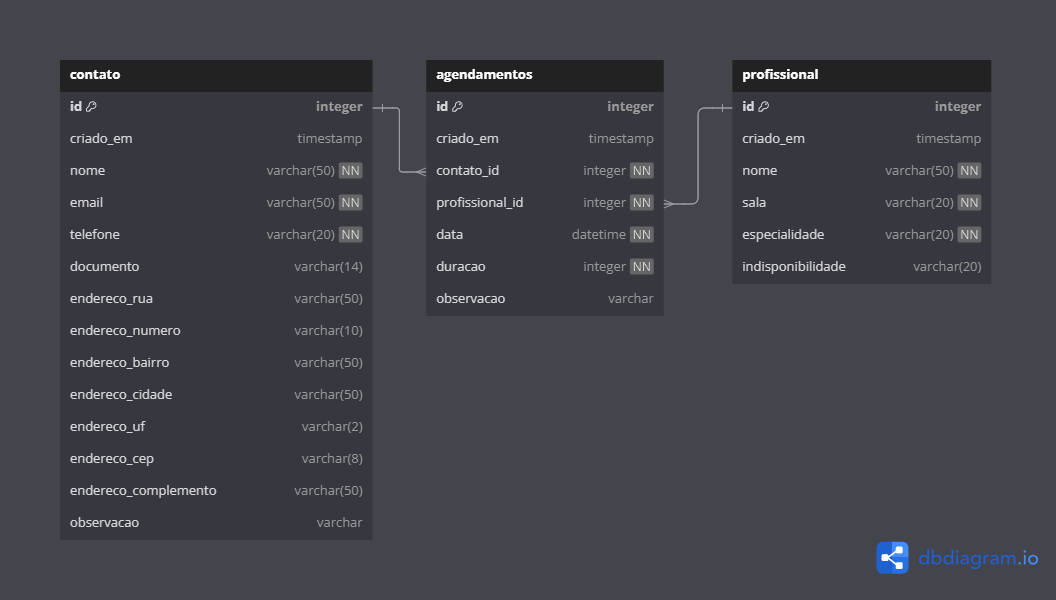
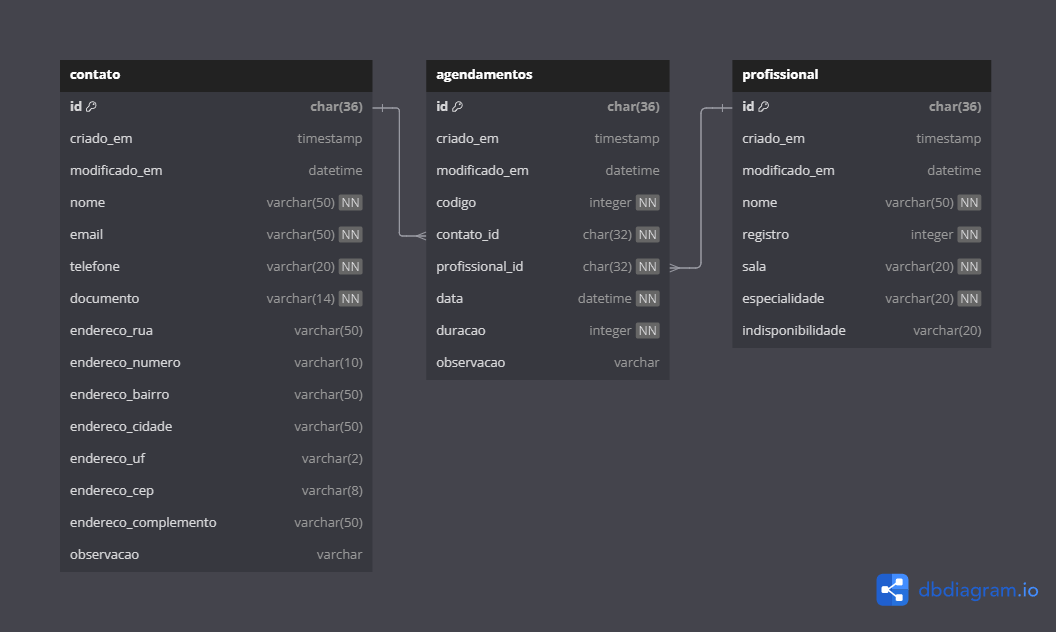
remoção de comentários e logs desnecessários, ajustes para crud de agendamentos, correção do dfd, criação de cenários de teste, preenchimento do readme e menores ajustes

diff --git a/src/data/agendamentos.py b/src/data/agendamentos.py
@@ -1,60 +1,124 @@
-from src.data.db_conn import db_connection
-from mysql.connector import Error
+from datetime import datetime
+from prettytable import PrettyTable
 
-def agendamentos_incluir(contato_id, profissional_id, data, duracao):
+from src.utils import *
+from src.data.db_conn import db_connection, par_dbType
+if par_dbType == "mssql": from pyodbc import Error
+if par_dbType == "mysql": from mysql.connector import Error
+
+def agendamentos_incluir(contato_doc, profissional_registro, data, hora, duracao):
     try:
         conn = db_connection()
         cursor = conn.cursor()
-        query = "insert into agendamentos(contato_id, profissional_id, data, duracao) values (%s, %s, %s, %s)"
-        values = (contato_id, profissional_id, data, duracao)
+        contato_id = contato_buscar_id(contato_doc)
+        profissional_id = profissional_buscar_id(profissional_registro)
+        codigo = agendamentos_buscar_ultimo_codigo() + 1
+        date = datetime.strptime(data + " " + hora, "%d/%m/%Y %H:%M")
+        date = date.strftime("%Y-%m-%d %H:%M:00")
+        query = "insert into agendamentos (codigo, contato_id, profissional_id, data, duracao) values (%s, %s, %s, %s, %s)"
+        query = dbms_mark_replacer(par_dbType, query)
+        values = (codigo, contato_id, profissional_id, date, duracao)
         cursor.execute(query, values)
-        db_connection().commit()
-        print("insert OK")
+        conn.commit()
     except Error as e:
         print(f"erro ao inserir dados: {e}")
     finally:
         cursor.close()
 
-def agendamentos_alterar(id, contato_id, profissional_id, data, duracao):
+def agendamentos_alterar(codigo, contato_doc, profissional_registro, data, hora, duracao):
     try:
         conn = db_connection()
         cursor = conn.cursor()
-        query = "update agendamentos set contato_id = %s, profissional_id = %s, data = %s, duracao = %s where id = %s" 
-        values = (contato_id, profissional_id, data, duracao, id)
+        contato_id = contato_buscar_id(contato_doc)
+        profissional_id = profissional_buscar_id(profissional_registro)
+        date = datetime.strptime(data + " " + hora, "%d/%m/%Y %H:%M")
+        date = date.strftime("%Y-%m-%d %H:%M:00")
+        query = "update agendamentos set contato_id = %s, profissional_id = %s, data = %s, duracao = %s where codigo = %s"
+        query = dbms_mark_replacer(par_dbType, query)
+        values = (contato_id, profissional_id, date, duracao, codigo)
+        print('var values: ', values)
         cursor.execute(query, values)
-        db_connection().commit()
-        print("update OK")
+        conn.commit()
     except Error as e:
         print(f"erro ao alterar dados: {e}")
     finally:
         cursor.close()
 
-def agendamentos_excluir(id):
+def agendamentos_excluir(codigo):
     try:
         conn = db_connection()
         cursor = conn.cursor()
-        query = "delete from agendamentos where id = %s"
-        values = (id,)
+        query = "delete from agendamentos where codigo = %s"
+        query = dbms_mark_replacer(par_dbType, query)
+        values = (codigo,)
         cursor.execute(query, values)
-        db_connection().commit()
-        print("delete OK")
+        conn.commit()
     except Error as e:
         print(f"erro ao excluir dados: {e}")
     finally:
         cursor.close()
 
-
-## TO-DO ajustar
 def agendamentos_listar():
     try:
         conn = db_connection()
         cursor = conn.cursor()
-        query = "select * from agendamentos"
+        query = "select format(a.data, 'dd/MM/yyyy HH:mm') \"data\", concat(a.duracao, ' minutos') \"duracao\", concat('#', a.codigo) \"codigo\", c.nome \"paciente\", p.nome \"profissional\" \
+                from agendamentos a \
+                inner join profissional p on a.profissional_id = p.id \
+                inner join contato c on a.contato_id = c.id \
+                order by a.data, a.codigo;"
         cursor.execute(query)
         rows = cursor.fetchall()
-        for row in rows:
-            print(row)
+        table = PrettyTable()
+        table.title = "*** Appointment Manager - Agendamentos ***"
+        table.field_names = ["Data", "Duracao", "Codigo", "Paciente", "Profissional"]
+        table.add_rows(rows)
+        table.align = "l"
+        print(table)
     except Error as e:
         print(f"erro ao listar dados: {e}")
+    finally:
+        cursor.close()
+
+def contato_buscar_id(contato_doc):
+    try:
+        conn = db_connection()
+        cursor = conn.cursor()
+        query = "select id from contato where documento = %s"
+        query = dbms_mark_replacer(par_dbType, query)
+        values = (contato_doc,)
+        cursor.execute(query, values)
+        row = cursor.fetchone()
+        return row[0]
+    except Error as e:
+        print(f"erro ao buscar dados: {e}")
+    finally:
+        cursor.close()
+
+def profissional_buscar_id(profissional_registro):
+    try:
+        conn = db_connection()
+        cursor = conn.cursor()
+        query = "select id from profissional where registro = %s"
+        query = dbms_mark_replacer(par_dbType, query)
+        values = (profissional_registro,)
+        cursor.execute(query, values)
+        row = cursor.fetchone()
+        return row[0]
+    except Error as e:
+        print(f"erro ao buscar dados: {e}")
+    finally:
+        cursor.close()
+
+def agendamentos_buscar_ultimo_codigo():
+    try:
+        conn = db_connection()
+        cursor = conn.cursor()
+        query = "select max(codigo) from agendamentos"
+        cursor.execute(query)
+        row = cursor.fetchone()
+        return row[0]
+    except Error as e:
+        print(f"erro ao buscar dados: {e}")
     finally:
         cursor.close()

diff --git a/src/menu/home.py b/src/menu/home.py
@@ -27,7 +27,7 @@ def start_menu():
   print("---------------------------")
 
 def end_menu(current_menu):
-  print("Pressione ENTER para continuar...")
+  print("Pressione ENTER para voltar ao menu...")
   input()
   match current_menu:
     case "contato":
@@ -84,7 +84,7 @@ def contato_alterar_menu():
 
 def contato_excluir_menu():
   start_menu()
-  print("Por favor, insira o id do contato a ser excluído:")
+  print("Por favor, insira o documento do contato a ser excluído:")
   documento = input("Documento: ")
   contato_excluir(documento)
   print("Contato excluído com sucesso!")
@@ -93,7 +93,6 @@ def contato_excluir_menu():
 def contato_listar_menu():
   clear_term()
   contato_listar()
-  print("Contatos listados com sucesso!")
   end_menu("contato")
 
 # profissionais
@@ -152,7 +151,6 @@ def profissional_excluir_menu():
 def profissional_listar_menu():
   clear_term()
   profissional_listar()
-  print("Profissionais listados com sucesso!")
   end_menu("profissional")
 
 # agendamentos
@@ -180,37 +178,38 @@ def agendamentos_menu():
 
 def agendamentos_incluir_menu():
   start_menu()
-  print("Incluir Agendamento") 
-  contato_id = int(input("Contato Id: ")) 
-  profissional_id = int(input("Profissional Id: ")) 
-  data = input("Data: ") 
-  duracao = input("Duracao: ") 
-  agendamentos_incluir(contato_id, profissional_id, data, duracao)
+  print("Incluir Agendamento")
+  contato_doc = input("Documento do contato: ")
+  profissional_registro = int(input("Registro do profissional: "))
+  data = input("Data (dd/mm/aaaa): ")
+  hora = input("Hora (hh:mm): ")
+  duracao = int(input("Duracao (minutos): "))
+  agendamentos_incluir(contato_doc, profissional_registro, data, hora, duracao)
   print("Agendamento incluído com sucesso!")
-  end_menu("agendamento")
+  end_menu("agendamentos")
 
 def agendamentos_alterar_menu():
   start_menu()
   print("Alterar Agendamento")
-  id = int(input("Id: "))
-  contato_id = int(input("Contato Id: "))
-  profissional_id = int(input("Profissional Id: "))
-  data = input("Data: ")
-  duracao = input("Duracao: ")
-  agendamentos_alterar(id, contato_id, profissional_id, data, duracao)
+  codigo = int(input("Código do agendamento: #"))
+  contato_doc = input("Documento do contato: ")
+  profissional_registro = int(input("Registro do profissional: "))
+  data = input("Data (dd/mm/aaaa): ")
+  hora = input("Hora (hh:mm): ")
+  duracao = int(input("Duracao (minutos): "))
+  agendamentos_alterar(codigo, contato_doc, profissional_registro, data, hora, duracao)
   print("Agendamento alterado com sucesso!")
-  end_menu("agendamento")
+  end_menu("agendamentos")
 
 def agendamentos_excluir_menu():
   start_menu()
   print("Excluir Agendamento")
-  id = int(input("Id: "))
-  agendamentos_excluir(id)
+  codigo = int(input("Código do agendamento: #"))
+  agendamentos_excluir(codigo)
   print("Agendamento excluído com sucesso!")
-  end_menu("agendamento")
+  end_menu("agendamentos")
 
 def agendamentos_listar_menu():
-    start_menu()
-    agendamentos_listar()
-    print("Agendamentos listados com sucesso!")
-    end_menu("agendamento")
+  clear_term()
+  agendamentos_listar()
+  end_menu("agendamentos")

diff --git a/src/data/db_conn.py b/src/data/db_conn.py
@@ -1,28 +1,25 @@
-# dependencias
-# pip install mysql-connector-python
-# pip install pyodbc
-
 # parametros
 par_dbType = "mssql" # mysql, mssql, sqlite3
+
 par_mysqlHost = "localhost"
 par_mysqlUser = "appmgr"
 par_mysqlPassword = "masterkey"
 par_mysqlDatabase = "appmgr"
+
 par_mssqlHost = "regisboliver-fatec.database.windows.net"
 par_mssqlUser = "master"
 par_mssqlPassword = "9mLePk^Y#2asSFfx7yl4"
 par_mssqlDatabase = "pin_appmgr"
+
 par_sqlite3Host = "src/data/appmgr.db"
 
 def db_connection(dbType = par_dbType):
 
     dbData = db_data(dbType)
-    # print("[db_conn] db_connection_multi() - Database data:", dbData)
 
     match dbData["dbType"]:
         case "mysql":
             import mysql.connector
-            from mysql.connector import Error
             try:
                 connection = mysql.connector.connect(
                     host=     dbData["dbHost"],
@@ -31,9 +28,8 @@ def db_connection(dbType = par_dbType):
                     database= dbData["dbName"]
                 )
                 if connection.is_connected():
-                    # print("[db_conn] db_connection_multi() - Successfully connected to the database (MySQL).")
                     return connection
-            except Error as e:
+            except mysql.connector.Error as e:
                 print(f"[db_conn] db_connection_multi() - Error while connecting to MySQL: {e}")
                 return None
 
@@ -92,9 +88,6 @@ def db_data(dbType):
             print("[db_conn] db_data() - Invalid database type.")
             return None
     
-    # dbData = (dbType, dbHost, dbUser, dbPassword, dbName)
     dbData = {"dbType": dbType, "dbHost": dbHost, "dbUser": dbUser, "dbPassword": dbPassword, "dbName": dbName}
-
-    # print("[db_conn] db_data() - Database data:", dbData)
 
     return dbData

diff --git a/src/data/profissional.py b/src/data/profissional.py
@@ -1,7 +1,9 @@
-from src.data.db_conn import db_connection, par_dbType
-from src.utils import *
-from mysql.connector import Error
 from prettytable import PrettyTable
+
+from src.utils import *
+from src.data.db_conn import db_connection, par_dbType
+if par_dbType == "mssql": from pyodbc import Error
+if par_dbType == "mysql": from mysql.connector import Error
 
 def profissional_incluir(nome, registro, sala, especialidade):
     try:
@@ -11,8 +13,7 @@ def profissional_incluir(nome, registro, sala, especialidade):
         query = dbms_mark_replacer(par_dbType, query)
         values = (nome, registro, sala, especialidade)
         cursor.execute(query, values)
-        conn().commit()
-        print("insert OK")
+        conn.commit()
     except Error as e:
         print(f"erro ao inserir dados: {e}")
     finally:
@@ -26,8 +27,7 @@ def profissional_alterar(registro, nome, sala, especialidade):
         query = dbms_mark_replacer(par_dbType, query)
         values = (nome, sala, especialidade, registro)
         cursor.execute(query, values)
-        conn().commit()
-        print("update OK")
+        conn.commit()
     except Error as e:
         print(f"erro ao alterar dados: {e}")
     finally:
@@ -41,8 +41,7 @@ def profissional_excluir(registro):
         query = dbms_mark_replacer(par_dbType, query)
         values = (registro,)
         cursor.execute(query, values)
-        conn().commit()
-        print("delete OK")
+        conn.commit()
     except Error as e:
         print(f"erro ao excluir dados: {e}")
     finally:

diff --git a/src/data/contato.py b/src/data/contato.py
@@ -1,7 +1,9 @@
-from src.data.db_conn import db_connection, par_dbType
-from src.utils import *
-from mysql.connector import Error
 from prettytable import PrettyTable
+
+from src.utils import *
+from src.data.db_conn import db_connection, par_dbType
+if par_dbType == "mssql": from pyodbc import Error
+if par_dbType == "mysql": from mysql.connector import Error
 
 def contato_incluir(nome, email, telefone, documento):
     try:

diff --git a/README.md b/README.md
@@ -1,25 +1,31 @@
 # Appointment Manager
 
-## Título
-
-O nome do projeto.
-
 ## Descrição
 
-Um resumo do que o projeto faz.
+A aplicação tem o objetivo de gerenciar agendamentos. Para isso, devemos antes realizar o cadastro de contatos e profissionais.
+
+Existe um menu onde você poderá percorrer as opções de contato, profissional e agendamentos, sendo elas: listar, incluir, alterar e excluir.
 
 ## Instalação
 
-Instruções sobre como instalar o projeto.
+> É necessário ter o Python 3.12 ou superior instalado.
+
+Para instalação do projeto, basta clonar o repositório e executar o comando `pip install -r requirements.txt`.
+
+Verificar se os dados de acesso ao banco de dados estão corretos em `src/data/db_conn.py`, de acordo com o SGBD utilizado.
+
+Após todas as dependências serem instaladas e informações de conexão com o banco de dados estarem corretas, basta executar o comando `python .` na raiz do projeto.
 
 ## Uso
 
-Exemplos e instruções de uso.
+A interface da aplicação é um menu básico que permite realizar funções como listar, incluir, alterar e excluir contatos, profissionais e agendamentos. Para isso, basta navegar pelo menu e escolher a opção desejada.
+
+Para a criação de um agendamento, é necessário que o contato e o profissional sejam previamente cadastrados, e você deve saber o número de documento do contato e o registro do profissional.
 
 ## Contribuição
 
-Como outras pessoas podem contribuir.
+Agradecimentos ao professor Wagner Luiz de Andrade Júnior pela orientação e auxílio na construção do projeto.
 
 ## Licença
 
-Informação sobre a licença do projeto.
+O projeto pode ser reproduzido sem restrições, desde que o autor seja citado.
